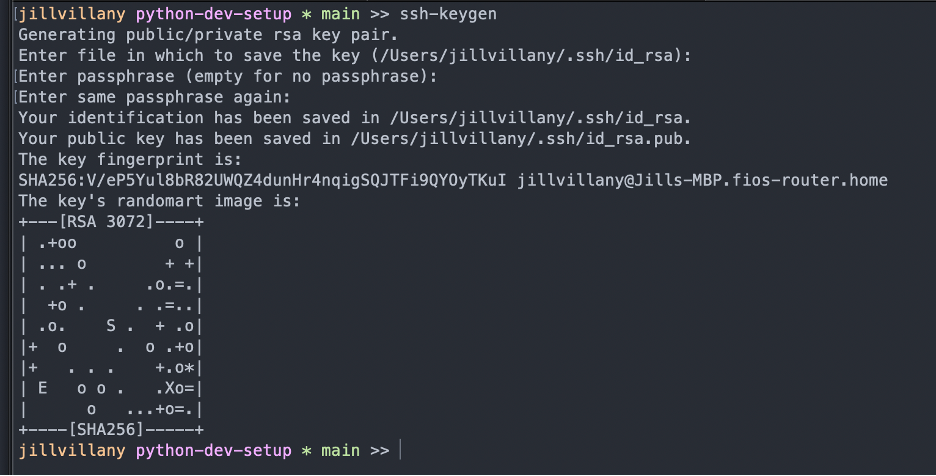
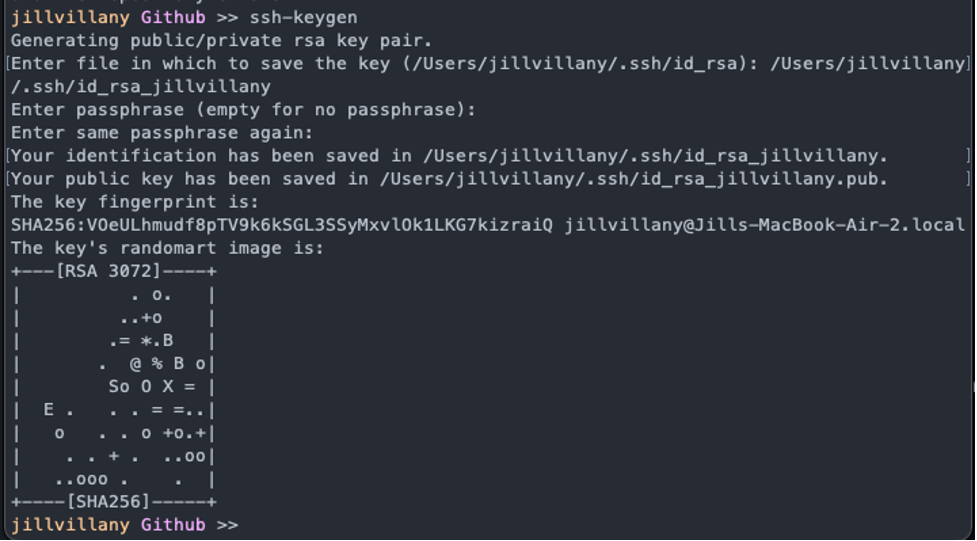
mac setup updates

Changed region(s): [[0.0, 0.0, 1.0, 1.0], [0.062, 0.5882, 0.0929, 0.6471]]

diff --git a/README.md b/README.md
@@ -3,7 +3,7 @@
 ## Table of Contents
 
 1. [Set Up Components](#Set-Up-Components)
-2. [Mac Base System Set Up](#Mac-Base-System-Set-Up)
+2. [Apple Xcode and Homebrew Install (MAC ONLY)](#Apple-Xcode-and-Homebrew-Install-(MAC-ONLY))
 3. [Git Install](#Git-Install) <br>
     A. [Mac](#Mac-Git-Install) <br>
     B. [Windows](#Windows-Git-Install) <br>
@@ -24,13 +24,14 @@ Optimal setup for Python developers includes the following components:
 
 
 1. Version Control - Git
-    - Includes Git Bash on Windows
+    - Includes Git Bash terminal on Windows
 2. Code editor
     - Recommend: Vscode
     - Rationale: Debugging capabilities of Pycharm with better code function lookup across imported files/ packages as well as functionality to run Jupyter notebooks
+    - Exception: When working with files on remote Linux server, recommend using Atom with the ftp-remote-edit package
 3. Python version manager
     - Recommend: pyenv
-    - Rationale: More lightweight than anaconda
+    - Rationale: More lightweight than anaconda and open source
 4. Python package dependency manager
     - Recommend: poetry
     - Rationale: Account for dependencies of package dependencies (not handled by creating a venv with hard-coded package versions)
@@ -41,7 +42,7 @@ Optimal setup for Python developers includes the following components:
 With these components in place, new users/ team members can easily get code running by ensuring all depdencies (Python version/ Python package versions) are the same.
 <br>
 
-## Mac base system setup
+## Apple Xcode and Homebrew Install (MAC ONLY)
 
 1. 	Install Apple Xcode developer tools
     ``` code-select --install```
@@ -54,6 +55,7 @@ With these components in place, new users/ team members can easily get code runn
 ### Mac Git Install
 1. Install git using homebrew <br>
     ```brew install git```
+
 ### Windows Git Install
 1. Install git https://git-scm.com/download/win
 2. Use git bash as your terminal interface (allows similar commands as mac terminal)
@@ -68,21 +70,58 @@ To easily authenticate with github (i.e. not need to enter your username/ passwo
 
 1. Create an ssh key pair
     - ```ssh-keygen```
-    - Press enter to get through the prompts/ accept defaults
+    - NOTE: In order to make the setup flexible to multiple different user accounts on the same machine (helpful when working on a project team's remote desktop) add your git profile to the end of the id_rsa file name
+        - For example: `Users/jillvillany/.ssh/id_rsa_jillvillany`
     - <img src="img/ssh-keygen.png" width=500>
-2. Navigate to where the ssh key pair was created (NOTE: you may need to make hidden folders visible if on a Mac)
-3. Open the `id_rsa.pub` file with a text editor and copy the contents
-4. In Github, navigate to Settings > SSH and GPG keys
+2. Navigate to where the ssh key pair was created 
+    - Mac: use shortcut `shift + cmd + .` to view hidden directories/files
+    - Linux WinSCP: Options > Preferences > Panels > Show hidden files
+3. Create the config file 
+    `touch config`
+    - If using Github, add the below to your config file:
+        ```
+        Host github-{git username}
+         HostName github.com
+         IdentityFile ~/.ssh/id_rsa_{git username}
+         IdentitiesOnly yes
+        ```
+    - If Bitbucket:
+        ```
+        Host bitbucket.org-{git username}
+         HostName bitbucket.org
+         User git
+         IdentityFile ~/.ssh/id_rsa_{git username}
+         IdentitiesOnly yes
+        ```
+    - NOTE: If you have other users to add, create similar entries below in the file
+4. Open the `id_rsa_{git username}.pub` file with a text editor and copy the contents
+5. In Github, navigate to Settings > SSH and GPG keys
      - <img src="img/git-settings.png" width=500>
-5. Click New SSH key and add the contents of your `id_rsa.pub` file in the key field
+6. Click New SSH key and add the contents of your `id_rsa_{git username}.pub` file in the key field
+7. (MAC ONLY) Add SSH key to agent:
+    ```
+    ssh-add ~/.ssh/id_rsa_{git username}
+    ```
+8. Test your SSH connection to github
+    ```
+    ssh -T git@github.com
+    ssh -T git@github-superman
+    ```
 
-#### Confirm SSH connection
+#### Clone Repo with SSH Auth
 
 - On a new repo:
     - select SSH when you clone the code and copy the URL
         - <img src="img/ssh-clone.png" width=500>
     - In terminal ```git clone {SSH URL}```
+        - For example: `git clone git@github.com:jillvillany/python-dev-setup.git`
         - <img src="img/ssh-clone-success.png" width=500>
+- IMPORTANT: If multiple users are working in the directory, be sure to set the git config user.email before pushing so that commits belong to the user that made the change
+    ```
+    git config user.email "{your email}"
+    ```
+
+#### Update Repo Auth to SSH
 
 - On an existing git repo (i.e. if had cloned this repo using username and password auth)
     - Set the remote URL to the URL used with ssh
@@ -152,39 +191,42 @@ To easily authenticate with github (i.e. not need to enter your username/ passwo
 
 ### Mac Pyenv Install
 
-- See this article for reference: https://chamikakasun.medium.com/how-to-manage-multiple-python-versions-in-macos-2021-guide-f86ef81095a6
-- After following these instructions, my .bash_profile looked like below (NOTE: I had to modify the pyenv init command they recommend to include “path” to get things working)
+See this article for reference: https://chamikakasun.medium.com/how-to-manage-multiple-python-versions-in-macos-2021-guide-f86ef81095a6
 
-``` 
-export PATH=/usr/local/bin:/usr/local/sbin:${PATH}
-export PATH=/usr/local/bin:/usr/local/sbin:${PATH}
+- Run the following commands in terminal:
+    ```
+    brew install openssl readline sqlite3 xz zlib
+    curl https://pyenv.run | bash
+    ```
+- Open .bash_profile (create it if needed) 
+    ```
+    touch ~/.bash_profile # create and open
+    open ~/.bash_profile
+    ```
+- Add pyenv and pyenv virtualenv path to bash profile
+    ```
+    export PYENV_ROOT="$HOME/.pyenv"
+    export PATH="$PYENV_ROOT/bin:$PATH"
+    if command -v pyenv 1>/dev/null 2>&1; then
+        eval "$(pyenv init --path)"
+        eval "$(pyenv virtualenv-init -)"
+    fi
+    ```
+- Restart terminal
+- Type `pyenv` and you should see a list of commands returned
+- Test can install a python version with pyenv
+    `pyenv install 3.8.3`
+    - NOTE: If you get an error, try running this patch command (make sure the version after patch matches the version you are installing)
+    ```
+    CFLAGS="-I$(brew --prefix openssl)/include -I$(brew --prefix bzip2)/include -I$(brew --prefix readline)/include -I$(xcrun --show-sdk-path)/usr/include" LDFLAGS="-L$(brew --prefix openssl)/lib -L$(brew --prefix readline)/lib -L$(brew --prefix zlib)/lib -L$(brew --prefix bzip2)/lib" pyenv install --patch 3.8.3 < <(curl -sSL https://github.com/python/cpython/commit/8ea6353.patch\?full_index\=1)
+    ```
+- Check it's in your Python versions
+    `pyenv versions`
+- Use pyenv to set your local python version
+    `pyenv local 3.8.3`
+- Check that your python version is now set to 3.8.3
+    `python -V`
 
-####### adding paths needed for working with different python versions using pyenv #########
-#pyenv
-export PATH="/Users/jillvillany/.pyenv/bin:$PATH"
-eval "$(pyenv init --path)"
-eval "$(pyenv virtualenv-init -)"
-
-#openssl
-export LDFLAGS="-L/usr/local/opt/openssl@1.1/lib"
-export CPPFLAGS="-I/usr/local/opt/openssl@1.1/include"
-
-#readline
-export LDFLAGS="-L/usr/local/opt/readline/lib"
-export CPPFLAGS="-I/usr/local/opt/readline/include"
-
-#sqlite
-export LDFLAGS="-L/usr/local/opt/sqlite/lib"
-export CPPFLAGS="-I/usr/local/opt/sqlite/include"
-
-#zlib
-export LDFLAGS="-L/usr/local/opt/zlib/lib"
-export CPPFLAGS="-I/usr/local/opt/zlib/include"
-
-
-source ~/.bash_prompt
-source ~/.aliases 
-```
 
 ### Windows Pyenv Install
 - You can follow the first half of the instructions in this article: http://evaholmes.com/how-to-set-up-pyenv-and-poetry-on-windows-10-for-python-project-management/
@@ -253,10 +295,11 @@ source ~/.aliases
     - Now when you cd into the project's directory, the venv set as the local python version will automatically be activated
 
 ## Poetry Install
-Install `poetry` with the following command:
 
-```curl -sSL https://raw.githubusercontent.com/python-poetry/poetry/master/get-poetry.py | python -```
-
+- Install `poetry` with the following command:
+    ```curl -sSL https://raw.githubusercontent.com/python-poetry/poetry/master/get-poetry.py | python -```
+- Restart your terminal
+- Enter `poetry` and you should see a list of commands returned
 
 ## Format Your Terminal
 
@@ -299,5 +342,5 @@ export PS1;
 export CLICOLOR=1
 export LSCOLORS=ExFxBxDxCxegedabagacad
 ```
-9. Relaunch you terminal and navigate to the ml-pipelines repo. You will now see your terminal prompt formatted with your username, current folder and repo branch 
+9. Relaunch you terminal and navigate to a git repo (i.e. this python-dev-setup repo). You will now see your terminal prompt formatted with your username, current folder and repo branch 
 ![](img/terminal_formatting.png)
